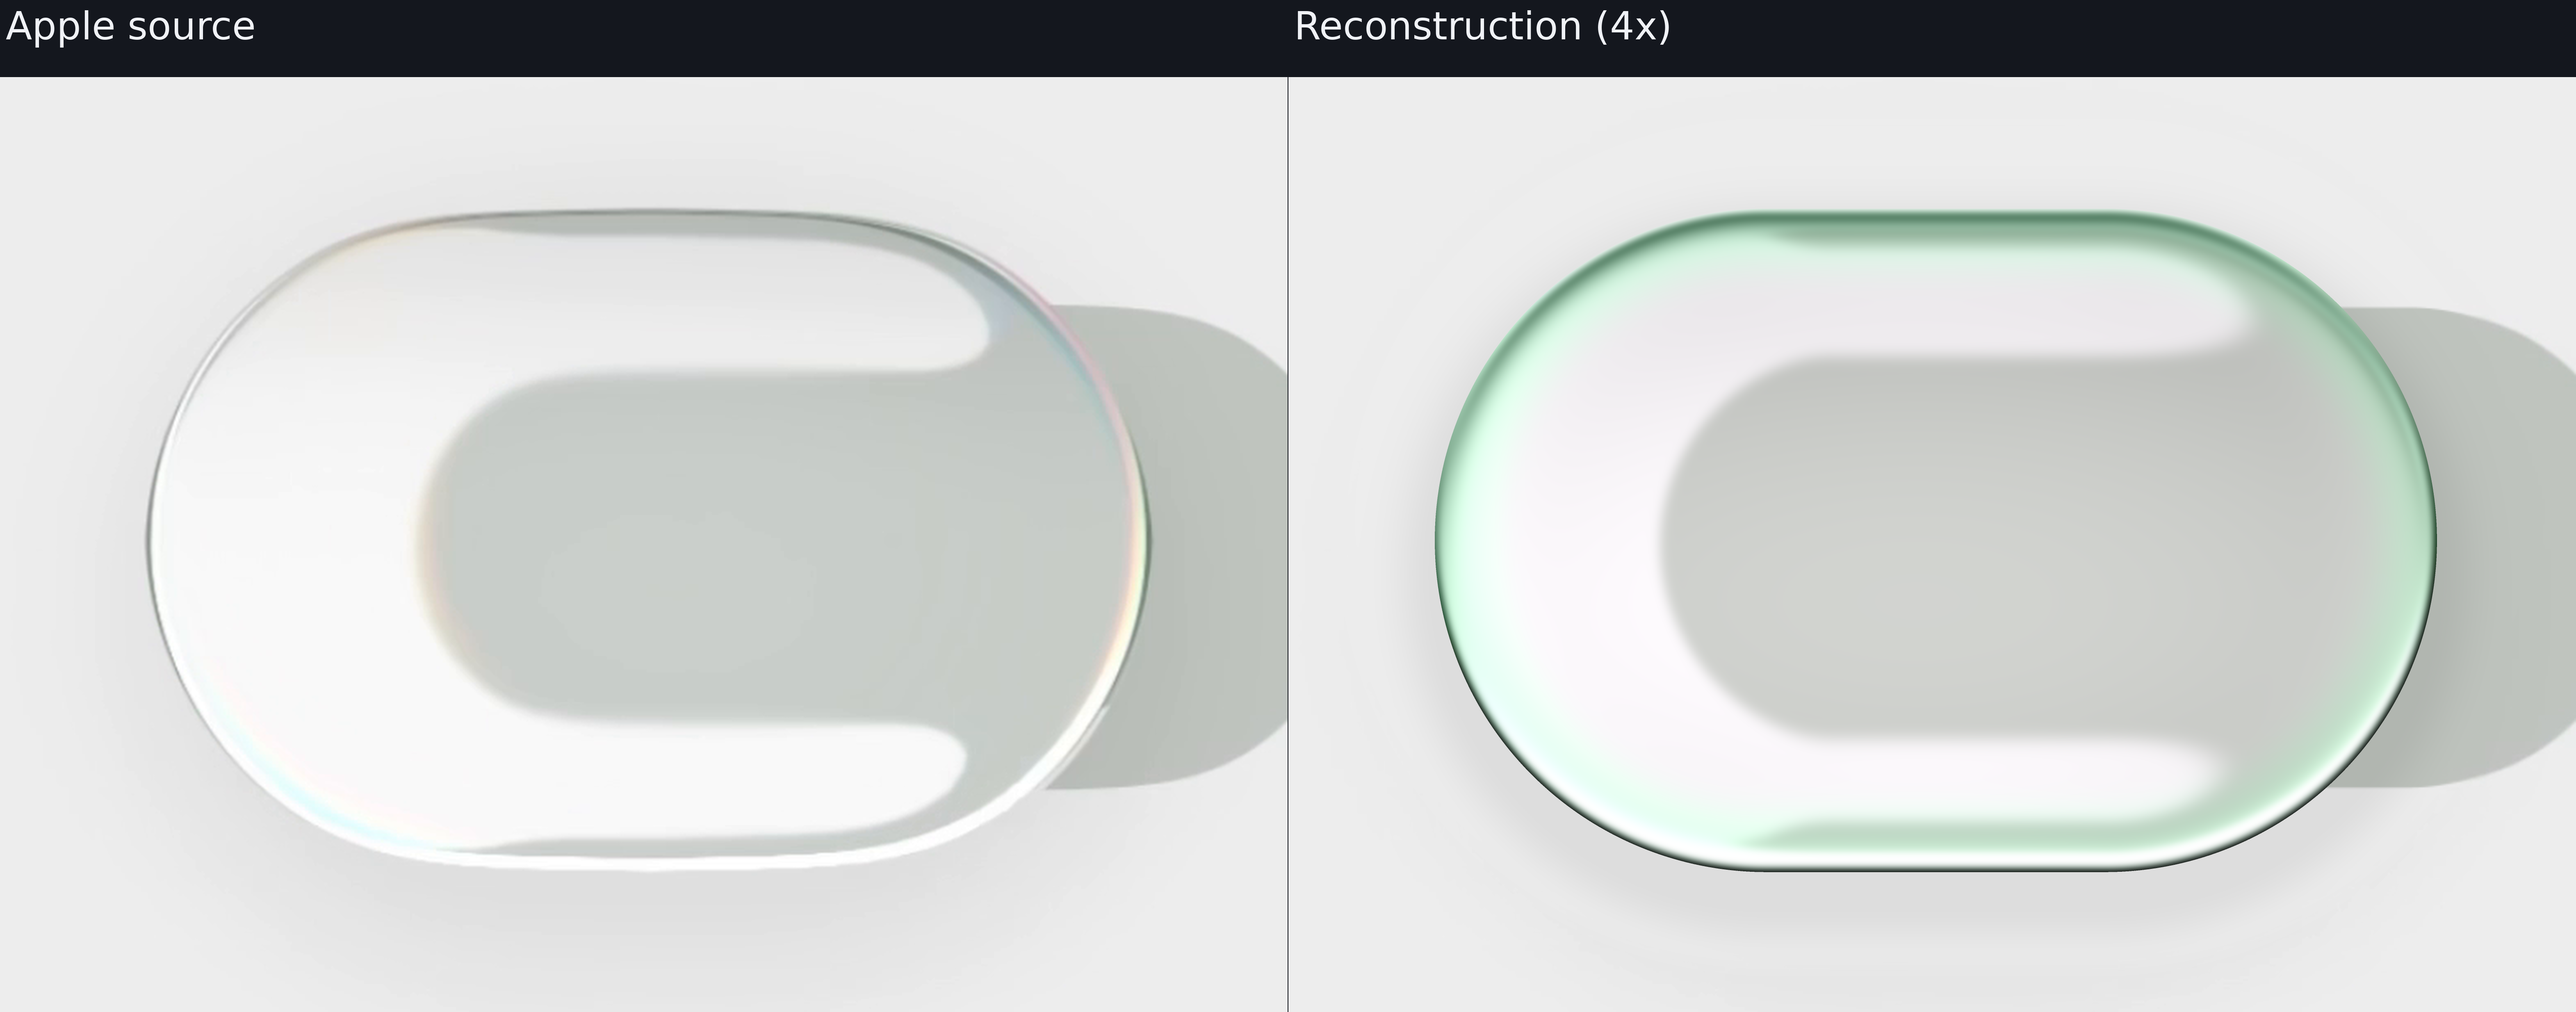
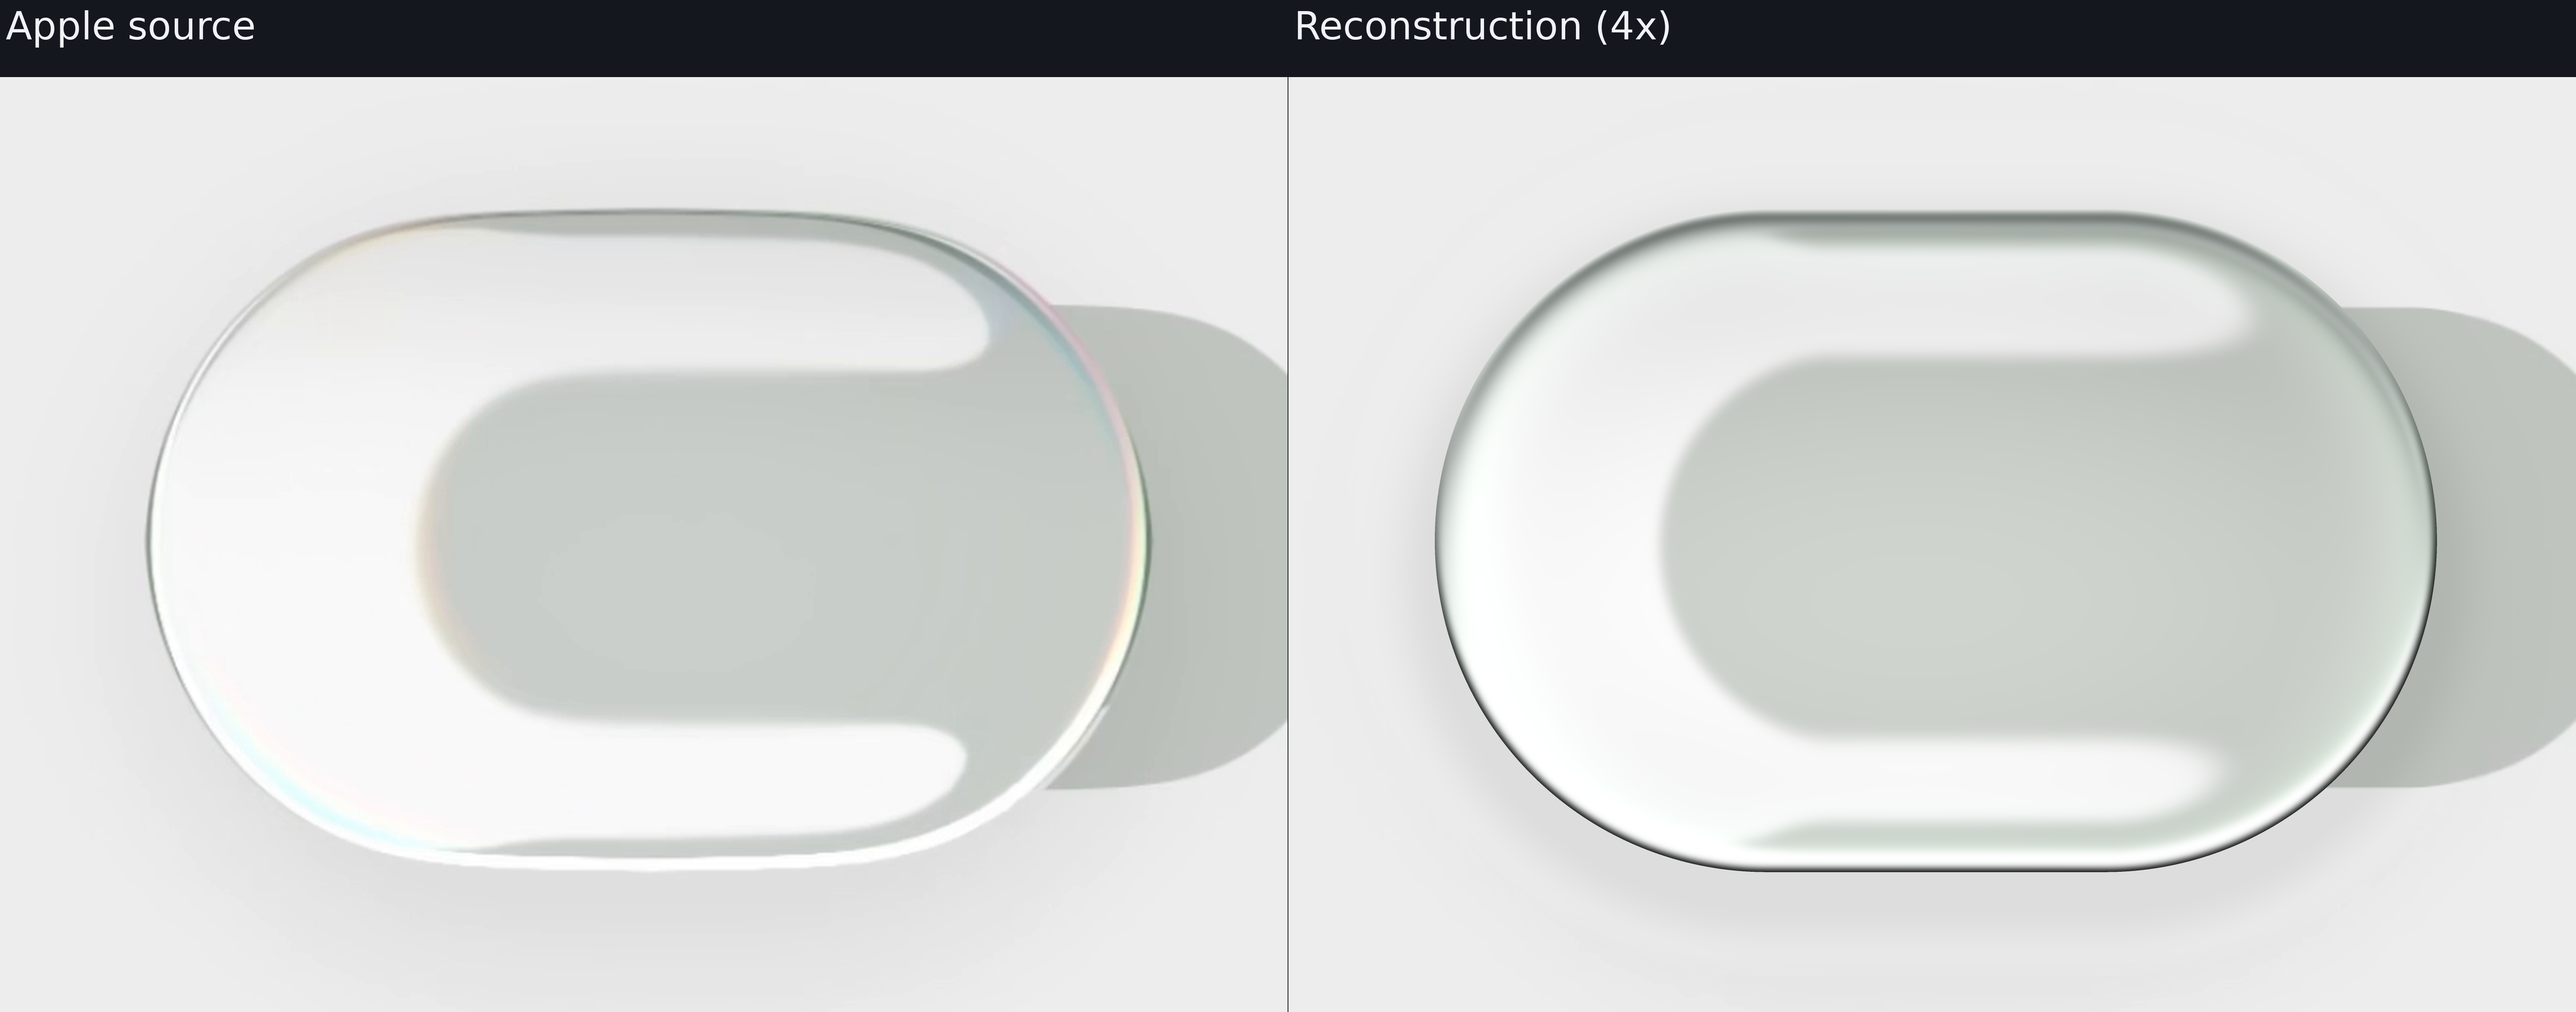
Refine active-switch paired-background pass 21: source-derived neutral-background material contraction (#222) [skip ci]

Changed region(s): [[0.5304, 0.1872, 0.8736, 0.6552], [0.8736, 0.2496, 0.9048, 0.312], [0.9048, 0.312, 0.936, 0.3432]]

diff --git a/docs/liquid-glass/reconstruction.md b/docs/liquid-glass/reconstruction.md
@@ -153,14 +153,14 @@ Frames A/B: 2.5/2.0 seconds. The foreground has been replaced with a clean symme
 
 ## Active switch — in progress
 
-Frames A/B: 9.4/10.5 seconds in [Apple's Details video](https://www.apple.com/newsroom/videos/2025/autoplay/06/apple-introduces-a-delightful-and-elegant-new-software-design/apple-wwdc25-liquid-glass-details/large_2x.mp4). These **4× snapshots** show 24 initial experiments and paired pass 20, not a completed study. Both use one signed image map and material, with the measured pose/size of each thumb.
+Frames A/B: 9.4/10.5 seconds in [Apple's Details video](https://www.apple.com/newsroom/videos/2025/autoplay/06/apple-introduces-a-delightful-and-elegant-new-software-design/apple-wwdc25-liquid-glass-details/large_2x.mp4). These **4× snapshots** show 24 initial experiments and paired pass 21, not a completed study. Both use one signed image map and material, with the measured pose/size of each thumb.
 
 [![Switch progress, green track: Apple left, reconstruction right](assets/study-active-switch-progress-a.png)](assets/study-active-switch-progress-a.png)
 
 [![Switch progress, gray track: Apple left, reconstruction right](assets/study-active-switch-progress-b.png)](assets/study-active-switch-progress-b.png)
 
 - The hidden track is an explicit symmetric, uniform-color estimate. Defined source coverage is distinct from directly observed pixels; scores are conditional on that estimate.
-- The gray-track rendering retains excess green in its rim. Colored reflection and edge shape remain incomplete; there is no claim of a recovered Apple solid.
+- A shared source-color rule reduces the material’s green cast on neutral backgrounds without desaturating refracted RGB detail. Colored reflection and edge shape remain incomplete; there is no claim of a recovered Apple solid.
 - [Current recipe and pass records](experiments/reconstruction/studies/active-switch/paired/accepted.json) · [Snapshot measurements](experiments/reconstruction/switch-gallery-progress.json) · [Ongoing PR #425](https://github.com/anastaci1a/localica/pull/425). Final paired verification and motion captures are pending.
 
 ### Colored switch rim
@@ -183,7 +183,7 @@ Each crop below places Apple on the left and snapshot 6 on the right. The gray-t
 | Search | 52.284 / 50.753 | 6.794 / 6.592 | 28 / 21 | Completed study |
 | Navigation | 3.916 / 55.270 | 1.611 / 6.044 | 20 / 24 | Completed study; rim mismatch |
 | Home | 55.738 / 114.298 | 6.956 / 9.731 | 22 / 20 | Boundary correction required |
-| Active switch, pass 20 | 254.741 / 456.624 | 12.615 / 17.912 | 24 / 20 | In progress |
+| Active switch, pass 21 | 254.741 / 329.425 | 12.615 / 15.767 | 24 / 21 | In progress |
 
 - Weighted loss is `0.7 × glass RMSE² + 0.3 × rim RMSE²`; each sample's loss and whole-glass RMSE must hold or improve. Rejected experiments retain the incumbent. Home's missing single-to-paired boundary check is explicitly flagged above.
 - These studies use two samples per output axis and fixed native-reference masks. They are not directly ranked against the earlier four-sample-per-axis studies below. Foreground errors and source-footprint diagnostics remain separate from glass scores.
